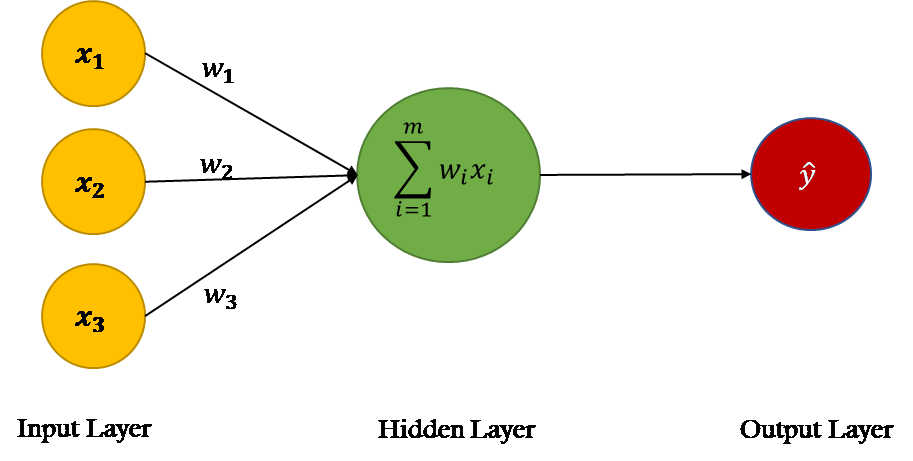
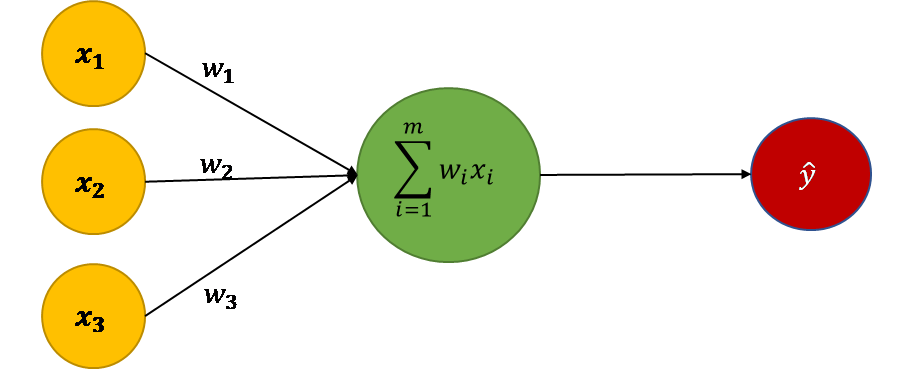
tweak slides some more for GDSC

diff --git a/slides/workshop-linear/sgd-2.md b/slides/workshop-linear/sgd-2.md
@@ -1,0 +1,33 @@
+---
+layout: two-cols
+---
+
+<figure>
+  <figcaption>Batch Gradient Descent (BGD)</figcaption>
+  <img alt="batch" src="/images/bgd.png" style="height: 135px" />
+</figure>
+<figure>
+  <figcaption>Stochastic Gradient Descent (SGD)</figcaption>
+  <img alt="sgd" src="/images/sgd.png" style="height: 135px" />
+</figure>
+<figure>
+  <figcaption>Mini-batch Gradient Descent (MBGD)</figcaption>
+  <img alt="mbgd" src="/images/mbgd.png" style="height: 135px" />
+</figure>
+
+::right::
+
+<img alt="variants" src="/images/variants.png" style="height: 480px" />
+
+<style>
+  figcaption {
+    font-size: 0.8em;
+    font-style: italic;
+    color: indigo;
+    text-align: center;
+  }
+
+  figure {
+    margin-bottom: 16px;
+  }
+</style>

diff --git a/slides/tools/jupyter-3.md b/slides/tools/jupyter-3.md
@@ -17,7 +17,7 @@ layout: two-cols
 - Jupyter _"keeps track"_ of variables
 
 ```py
-# Cell 1
+# Code Cell 1
 x = 5
 x
 ```
@@ -28,20 +28,20 @@ x
 ```
 
 ```py
-# Cell 2
+# Code Cell 2
 x ** 2 + 1 
 ```
 
 ```sh
-# Output cell
+# Output cell 2
 26
 ```
 
 ```py
-# Cell 3
+# Code Cell 3
 x *= 4
 ```
 
 - `x` is now `20`
-- Rerunning _Cell 2_ would produce 401
+- Rerunning _Code Cell 2_ would produce 401
   - even if it looks like it should be 26

diff --git a/slides.md b/slides.md
@@ -178,6 +178,9 @@ src: ./slides/workshop-linear/recall.md
 src: ./slides/workshop-linear/power-neuron.md
 ---
 ---
+src: ./slides/workshop-linear/power-neuron-2.md
+---
+---
 src: ./slides/workshop-linear/bias.md
 ---
 ---
@@ -236,6 +239,9 @@ src: ./slides/workshop-linear/hyperparams.md
 ---
 ---
 src: ./slides/workshop-linear/sgd.md
+---
+---
+src: ./slides/workshop-linear/sgd-2.md
 ---
 ---
 src: ./slides/workshop-linear/remember-sgd.md

diff --git a/slides/intro/outline.md b/slides/intro/outline.md
@@ -28,7 +28,7 @@ layout: two-cols
 - Vanilla neural networks
   * intuition on approximating functions <kbd>⌛ 15m</kbd>
   * handwritten digit recognition <kbd>⌛ 15m</kbd>
-  * Flutter Handwritten Digits Classifier <kbd>⌛ 20m</kbd>
+  * <logos-flutter /> Handwritten Digits Classifier App <kbd>⌛ 20m</kbd>
   * * experiments + Fashion MNIST <kbd>⌛ 20m</kbd>
   * Video: ALVINN <kbd>⌛ 3m</kbd>
 * convolutional neural networks (CNN)

diff --git a/slides/workshop-linear/power-neuron.md b/slides/workshop-linear/power-neuron.md
@@ -4,6 +4,9 @@ layout: center
 
 # [The Power of a Single Neuron][1]
 
+Don't forget that this neuron is _"artificial"_, and may not be representative of the power
+of a _"biological"_ neuron
+
 <img alt="single neuron" src="/images/single-neuron.png" />
 
 [1]: https://towardsdatascience.com/power-of-a-single-neuron-perceptron-c418ba445095

diff --git a/slides/workshop-linear/vectorization-1.md b/slides/workshop-linear/vectorization-1.md
@@ -13,7 +13,7 @@ layout: two-cols
 
 <img alt="dont" src="/images/dont.gif" style="width: 400px; height: 200px" />
 
-<img class="neuron mt-4" alt="neuron" src="/images/single-neuron.png" />
+<img class="neuron mt-4" alt="neuron" src="/images/single-neuron.png" style="height: 170px" />
 
 :: right::
 

diff --git a/slides/intro/assumptions.md b/slides/intro/assumptions.md
@@ -26,4 +26,4 @@ You can code in any language, preferably
 ![math](/images/math.png)
 
 * We'll also need <logos-dart /> Dart for the <logos-flutter /> apps we'll make.
-  * but this is secondary and not a priority
+  * but this is ~~secondary~~ just for fun and not our focus

diff --git a/slides/workshop-linear/power-neuron-2.md b/slides/workshop-linear/power-neuron-2.md
@@ -1,0 +1,9 @@
+---
+layout: center
+---
+
+# [The Power of a Single Neuron][1]
+
+<img alt="single neuron" src="/images/activation.png" style="height: 450px" />
+
+[1]: https://towardsdatascience.com/power-of-a-single-neuron-perceptron-c418ba445095

diff --git a/slides/workshop-linear/multivariate-workshop.md b/slides/workshop-linear/multivariate-workshop.md
@@ -13,7 +13,7 @@ pain.
 The notebook's link will be sent via chat, or just <twemoji-keyboard /> <twemoji-keyboard />
 type it out:
 
-## https://bit.ly/ece4241-ml-01
+## https://bit.ly/gdsccpu-tf01
 
 <Countdown class="text-orange-500 mt-16" />
 
